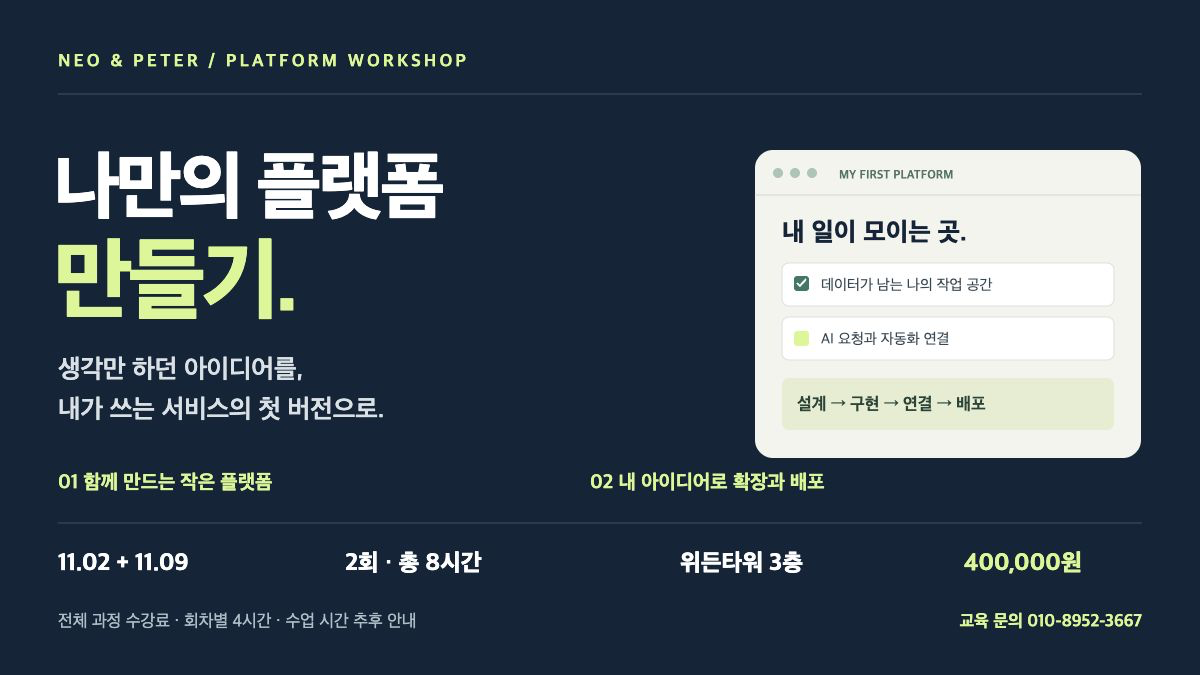
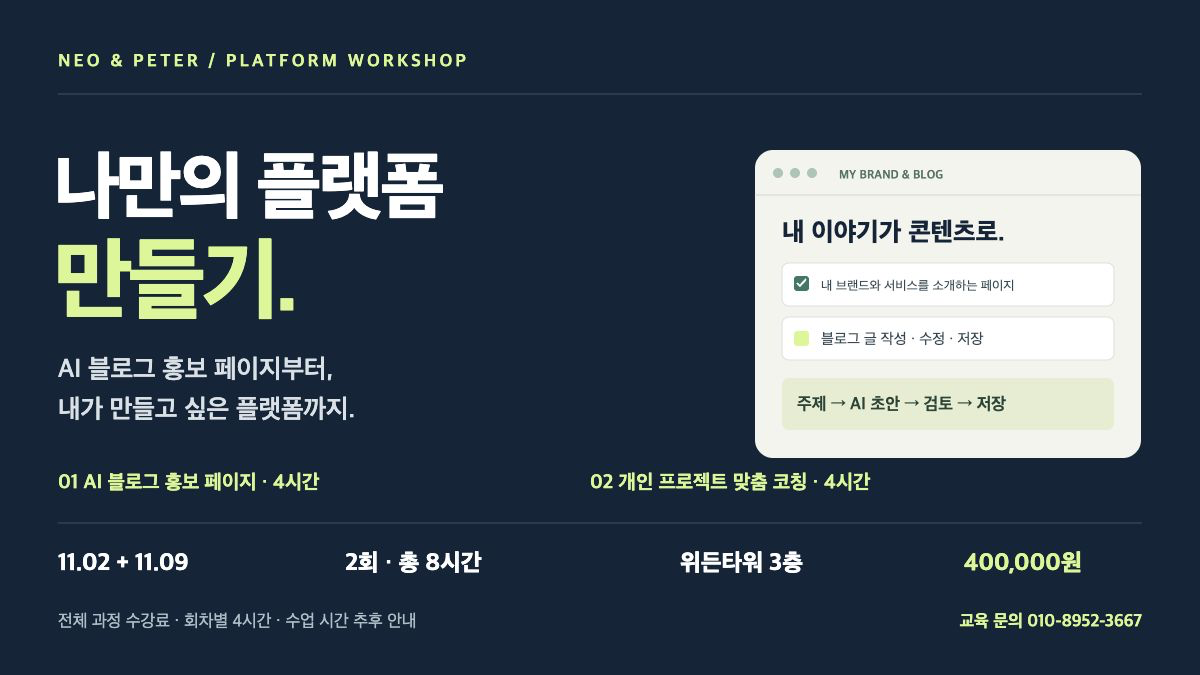
Align platform workshop with AI blog practice and personal coaching

diff --git a/app/courses/my-platform-1102/page.tsx b/app/courses/my-platform-1102/page.tsx
@@ -7,15 +7,15 @@ import { merchant } from '@/lib/merchant';
 export const metadata: Metadata = {
   metadataBase: new URL('https://aiedu1.vercel.app'),
   title: '나만의 플랫폼 만들기 · 11월 2일·9일 | 네오앤피터',
-  description: '2회 총 8시간, 아이디어 기획부터 화면·데이터·AI 연결과 배포까지. 위든타워 3층, 전체 수강료 400,000원. 수업 시간은 추후 안내합니다.',
+  description: '앞 4시간은 AI 블로그 홍보 페이지 공통 실습, 뒤 4시간은 개인 프로젝트 맞춤 코칭. 위든타워 3층, 전체 수강료 400,000원. 수업 시간은 추후 안내합니다.',
   openGraph: { title: '나만의 플랫폼 만들기', description: '11월 2일·9일 · 2회 총 8시간 · 40만원', images: [{ url: workshop.poster, width: 1200, height: 675, alt: '11월 2일·9일 나만의 플랫폼 만들기, 2회 총 8시간, 전체 40만원' }] },
 };
 
 const steps = [
-  [Layers3, '설계', '누가 쓰고, 무엇을 해결할지 정합니다.'],
-  [Code2, '구현', 'AI와 대화하며 화면과 기능을 만듭니다.'],
-  [Database, '연결', '데이터 저장과 자동화를 연결합니다.'],
-  [Globe2, '배포', '다른 기기에서도 열리는 주소를 만듭니다.'],
+  [Layers3, '홍보 페이지', '내 브랜드와 서비스를 소개하는 화면을 만듭니다.'],
+  [Code2, '블로그 기능', '글 작성·조회·수정·삭제 흐름을 연결합니다.'],
+  [Database, 'AI 초안', '주제로 초안을 만들고, 검토한 글을 저장합니다.'],
+  [Globe2, '개인 코칭', '각자 원하는 프로젝트의 구현과 오류 해결을 돕습니다.'],
 ] as const;
 
 export default function PlatformWorkshopPage() {
@@ -29,17 +29,17 @@ export default function PlatformWorkshopPage() {
         <p className="text-xs font-bold tracking-[.18em] text-[#d5f78c]">NEO &amp; PETER / BUILD YOUR OWN PLATFORM</p>
         <div className="mt-7 flex flex-wrap gap-2 text-xs font-semibold"><span className="rounded-full border border-white/25 px-3 py-1.5">11.02 + 11.09</span><span className="rounded-full border border-white/25 px-3 py-1.5">2회 × 4시간</span><span className="rounded-full border border-white/25 px-3 py-1.5">오프라인 실습</span></div>
         <h1 id="workshop-title" className="mt-7 text-4xl font-black leading-[1.15] tracking-tight sm:text-6xl">나만의 플랫폼<br/><span className="text-[#d5f78c]">만들기.</span></h1>
-        <p className="mt-7 text-xl font-semibold leading-relaxed sm:text-2xl">생각만 하던 아이디어를,<br/>내가 쓰는 서비스의 첫 버전으로.</p>
-        <p className="mt-4 max-w-lg text-sm leading-7 text-slate-300">화면을 만드는 데서 멈추지 않습니다. 입력한 정보가 저장되고, AI와 자동화가 연결되고, 내 주소로 열리는 작은 플랫폼을 직접 만들어봅니다.</p>
+        <p className="mt-7 text-xl font-semibold leading-relaxed sm:text-2xl">AI 블로그 홍보 페이지부터,<br/>내가 만들고 싶은 플랫폼까지.</p>
+        <p className="mt-4 max-w-lg text-sm leading-7 text-slate-300">앞 4시간은 함께 홍보 페이지와 AI 블로그 기능을 만듭니다. 뒤 4시간은 각자의 프로젝트를 중심으로, 원하는 기능을 구현하고 막히는 지점을 풀어가는 코칭 수업입니다.</p>
         <a href="#workshop-curriculum" className="mt-8 inline-flex items-center gap-3 rounded-full bg-[#d5f78c] px-6 py-3.5 text-sm font-extrabold text-[#102639] hover:bg-lime-200">8시간의 커리큘럼 살펴보기<ArrowDown className="size-4"/></a>
       </div>
       <div className="rounded-2xl border border-white/20 bg-white/[.06] p-5 sm:p-7">
-        <p className="mb-4 text-xs tracking-wider text-slate-300">수업 예시 / 내 할 일을 관리하는 작은 플랫폼</p>
+        <p className="mb-4 text-xs tracking-wider text-slate-300">실습 예시 / AI 블로그 기능이 있는 홍보 페이지</p>
         <div className="overflow-hidden rounded-xl bg-[#f8faf8] text-[#102639] shadow-2xl">
-          <div className="flex items-center gap-1.5 border-b border-slate-200 px-4 py-3"><span className="size-2 rounded-full bg-[#b9cdc5]"/><span className="size-2 rounded-full bg-[#b9cdc5]"/><span className="size-2 rounded-full bg-[#b9cdc5]"/><span className="ml-3 text-[10px] text-slate-500">MY FIRST PLATFORM</span></div>
-          <div className="p-5 sm:p-7"><p className="text-[11px] font-bold text-teal-700">MY WORKSPACE</p><h2 className="mt-2 text-2xl font-black">내 일이 모이는 곳.</h2><div className="mt-6 space-y-3">{['내일 발표 준비 추가하기', '콘텐츠 아이디어 정리하기', '완료한 일과 실행 기록 확인하기'].map((item,i)=><div key={item} className="flex items-center gap-3 rounded-lg border border-slate-200 bg-white p-3 text-xs"><span className={`grid size-5 shrink-0 place-items-center rounded border ${i===0?'border-teal-700 bg-teal-700 text-white':'border-slate-300'}`}>{i===0&&<Check className="size-3"/>}</span>{item}</div>)}</div><div className="mt-5 rounded-lg bg-[#e7eecf] p-3 text-xs font-semibold leading-6">“내일 할 일에 발표 준비를 추가해줘.”<br/><span className="font-normal text-slate-600">AI 요청 → 데이터 저장 → 화면에서 확인</span></div></div>
+          <div className="flex items-center gap-1.5 border-b border-slate-200 px-4 py-3"><span className="size-2 rounded-full bg-[#b9cdc5]"/><span className="size-2 rounded-full bg-[#b9cdc5]"/><span className="size-2 rounded-full bg-[#b9cdc5]"/><span className="ml-3 text-[10px] text-slate-500">MY BRAND & BLOG</span></div>
+          <div className="p-5 sm:p-7"><p className="text-[11px] font-bold text-teal-700">MY BRAND</p><h2 className="mt-2 text-2xl font-black">내 이야기가 콘텐츠로.</h2><div className="mt-6 space-y-3">{['내 브랜드·서비스 소개하기', 'AI 블로그 초안 검토·수정하기', '저장된 글 목록과 상세 글 확인하기'].map((item,i)=><div key={item} className="flex items-center gap-3 rounded-lg border border-slate-200 bg-white p-3 text-xs"><span className={`grid size-5 shrink-0 place-items-center rounded border ${i===0?'border-teal-700 bg-teal-700 text-white':'border-slate-300'}`}>{i===0&&<Check className="size-3"/>}</span>{item}</div>)}</div><div className="mt-5 rounded-lg bg-[#e7eecf] p-3 text-xs font-semibold leading-6">“우리 서비스 소개 글의 초안을 써줘.”<br/><span className="font-normal text-slate-600">주제 입력 → AI 초안 → 검토·수정 → 저장</span></div></div>
         </div>
-        <p className="mt-5 text-xs leading-6 text-slate-300">공통 예제로 작동 원리를 익힌 뒤, 내 업무·콘텐츠·학습 관리에 맞춰 확장합니다.</p>
+        <p className="mt-5 text-xs leading-6 text-slate-300">1회차에는 공통 프로젝트로 기본 흐름을 익힙니다. 2회차에는 홍보 페이지 확장이나 별도의 개인 프로젝트 등 각자의 목표에 맞춰 코칭합니다.</p>
       </div>
     </section>
 
@@ -53,14 +53,14 @@ export default function PlatformWorkshopPage() {
     </section>
 
     <section id="workshop-curriculum" className="scroll-mt-24 bg-white px-6 py-12 sm:px-10 sm:py-16" aria-labelledby="curriculum-heading">
-      <p className="text-xs font-bold tracking-widest text-teal-700">THE TWO-SESSION WORKSHOP</p><h2 id="curriculum-heading" className="mt-4 text-3xl font-black sm:text-4xl">한 번은 함께 만들고,<br/>한 번은 나의 것으로.</h2><p className="mt-5 max-w-2xl text-sm leading-7 text-slate-600">공통 예제로 작동 원리를 익힌 뒤, 개인 프로젝트로 확장하는 2회·8시간 실습 과정입니다. 회차별 4시간에는 휴식 시간이 포함됩니다.</p>
+      <p className="text-xs font-bold tracking-widest text-teal-700">THE TWO-SESSION WORKSHOP</p><h2 id="curriculum-heading" className="mt-4 text-3xl font-black sm:text-4xl">앞 4시간, 함께 만들고.<br/>뒤 4시간, 나에게 맞춥니다.</h2><p className="mt-5 max-w-2xl text-sm leading-7 text-slate-600">1회차는 AI 블로그 기능이 있는 홍보 페이지를 만드는 공통 실습입니다. 2회차는 개인이 원하는 프로젝트와 구현 방식에 대한 코칭을 중심으로 진행합니다. 회차별 4시간에는 휴식 시간이 포함됩니다.</p>
       <div className="mt-10 grid gap-6 xl:grid-cols-2">{workshop.sessions.map((session,index)=><article key={session.date} className={`rounded-3xl p-6 sm:p-8 ${index===0?'bg-[#eef2e8]':'bg-[#102639] text-white'}`}><p className={`text-xs font-bold ${index===0?'text-teal-800':'text-[#d5f78c]'}`}>SESSION 0{index+1} / {session.label} / 4시간</p><h3 className="mt-5 text-2xl font-black leading-tight sm:text-3xl">{session.title}</h3><ol className="mt-7 space-y-4">{session.topics.map((topic,i)=><li key={topic} className="flex gap-3 text-sm leading-6"><span className={`grid size-6 shrink-0 place-items-center rounded-full text-[11px] font-bold ${index===0?'bg-white text-teal-800':'bg-white/10 text-[#d5f78c]'}`}>{i+1}</span><span>{topic}</span></li>)}</ol><div className={`mt-8 border-t pt-5 ${index===0?'border-[#102639]/15':'border-white/20'}`}><p className={`text-xs ${index===0?'text-slate-500':'text-slate-300'}`}>오늘의 결과물</p><p className="mt-2 text-sm font-bold leading-6">{session.outcome}</p></div></article>)}</div>
-      <div className="mt-6 rounded-xl border border-dashed border-teal-300 bg-teal-50 p-5 text-sm leading-7 text-teal-950"><strong>두 수업 사이의 작은 과제.</strong> 내가 만들고 싶은 플랫폼의 사용자와 핵심 기능 하나를 정리해옵니다. 2회차에 같은 예제를 내 용도로 바꿉니다.</div>
+      <div className="mt-6 rounded-xl border border-dashed border-teal-300 bg-teal-50 p-5 text-sm leading-7 text-teal-950"><strong>두 수업 사이의 작은 과제.</strong> 만들고 싶은 서비스, 현재 작업한 화면이나 주소, 가장 해결하고 싶은 기능 하나를 정리해옵니다. 2회차 코칭에서 다룰 목표를 함께 정합니다.</div>
     </section>
 
     <section className="grid gap-10 px-6 py-12 sm:px-10 sm:py-16 xl:grid-cols-2">
       <div><p className="text-xs font-bold tracking-widest text-teal-700">WHO THIS IS FOR</p><h2 className="mt-4 text-3xl font-black">이런 시작을 기다린 분께.</h2><ul className="mt-7 space-y-4 text-sm leading-7">{['내 업무나 브랜드에 맞는 작은 서비스를 만들고 싶은 분', 'AI로 화면은 만들어봤지만 저장·연결·배포에서 막힌 분', '반복하는 일을 관리하는 나만의 공간이 필요한 분', '실제 결과물을 만들며 바이브코딩을 익히고 싶은 분'].map(item=><li key={item} className="flex gap-3"><Check className="mt-1.5 size-4 shrink-0 text-teal-700"/>{item}</li>)}</ul></div>
-      <div className="rounded-3xl bg-white p-6 sm:p-8"><Laptop className="size-7 text-teal-700"/><h3 className="mt-5 text-2xl font-black">가볍게 준비하고,<br/>직접 만들어봅니다.</h3><p className="mt-5 text-sm leading-7 text-slate-600">인터넷 연결이 가능한 개인 노트북, 크롬 브라우저, 평소 사용하는 AI 계정을 준비해주세요. 만들고 싶은 서비스의 아이디어가 있으면 좋습니다.</p><p className="mt-4 text-xs leading-6 text-slate-500">사용할 개발 도구와 계정 준비사항, 유료 서비스 이용 여부는 수업 전 안내합니다. 실습은 핵심 기능 1개와 자동화 1개가 작동하는 첫 버전을 목표로 합니다.</p></div>
+      <div className="rounded-3xl bg-white p-6 sm:p-8"><Laptop className="size-7 text-teal-700"/><h3 className="mt-5 text-2xl font-black">가볍게 준비하고,<br/>직접 만들어봅니다.</h3><p className="mt-5 text-sm leading-7 text-slate-600">인터넷 연결이 가능한 개인 노트북, 크롬 브라우저, 평소 사용하는 AI 계정을 준비해주세요. 만들고 싶은 서비스의 아이디어가 있으면 좋습니다.</p><p className="mt-4 text-xs leading-6 text-slate-500">사용할 개발 도구와 계정 준비사항, 유료 서비스 이용 여부는 수업 전 안내합니다. 공통 실습은 AI 초안 생성과 블로그 관리가 가능한 홍보 페이지를 목표로 합니다. 개인 코칭의 작업 범위는 각자의 출발점과 수업 시간에 맞춰 정합니다.</p></div>
     </section>
 
     <section id="workshop-schedule" className="scroll-mt-24 bg-[#d5f78c] px-6 py-12 sm:px-10 sm:py-16" aria-labelledby="schedule-heading">

diff --git a/lib/platform-building-workshop.ts b/lib/platform-building-workshop.ts
@@ -2,7 +2,7 @@
 export const PLATFORM_BUILDING_WORKSHOP = {
   slug: 'my-platform-1102',
   title: '나만의 플랫폼 만들기',
-  subtitle: 'AI와 함께, 아이디어를 작동하는 첫 버전으로.',
+  subtitle: '앞 4시간은 AI 블로그 홍보 페이지, 뒤 4시간은 개인 프로젝트 코칭.',
   category: '개발·백엔드',
   price: 400000,
   location: '위든타워 3층',
@@ -10,7 +10,7 @@ export const PLATFORM_BUILDING_WORKSHOP = {
   poster: '/posters/my-platform-1102.png',
   href: '/courses/my-platform-1102',
   sessions: [
-    { date: '2026-11-02', label: '11월 2일 (월)', title: '작은 플랫폼을 완성하는 날', outcome: '화면·데이터 저장·AI 연결이 이어지는 공통 예제', topics: ['실습 환경 준비와 첫 바이브코딩', '입력·목록·상태 변경 화면 만들기', '데이터 저장과 새로고침 후 유지 확인', 'AI 연결과 첫 자동화 실행'] },
-    { date: '2026-11-09', label: '11월 9일 (월)', title: '내 아이디어로 확장하는 날', outcome: '핵심 기능 1개와 자동화 1개를 갖춘 나의 첫 버전', topics: ['내가 해결할 문제와 핵심 기능 정하기', '공통 예제를 내 업무·브랜드에 맞게 바꾸기', '자동화 규칙과 오류 상황 테스트', '공유 주소 배포와 결과 시연'] },
+    { date: '2026-11-02', label: '11월 2일 (월)', title: 'AI 블로그 홍보 페이지 만들기', outcome: 'AI 초안 생성과 글 작성·조회·수정·삭제가 가능한 홍보 페이지', topics: ['실습 환경 준비와 내 브랜드 홍보 페이지 구성', '블로그 글 작성·목록·수정·삭제 기능 만들기', '주제 입력 → AI 초안 생성 → 검토·저장 연결', '저장된 글과 오류 상황 확인, 공유 주소 배포'] },
+    { date: '2026-11-09', label: '11월 9일 (월)', title: '개인 프로젝트 맞춤 코칭', outcome: '개인이 선택한 핵심 기능의 구현·개선과 다음 작업 계획', topics: ['각자의 목표와 현재 진행 상황 확인', '원하는 방식에 맞춰 구현할 핵심 기능 정하기', '개별 구현 코칭과 막히는 오류 함께 해결하기', '사용 흐름 점검, 결과 공유와 다음 단계 정리'] },
   ],
 } as const;
